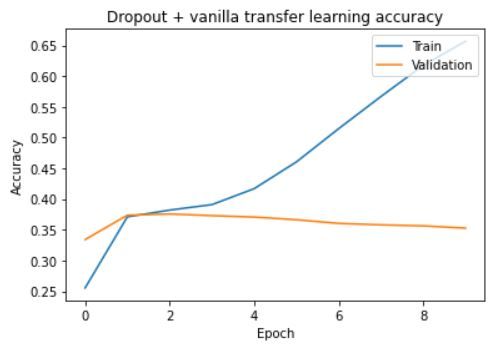
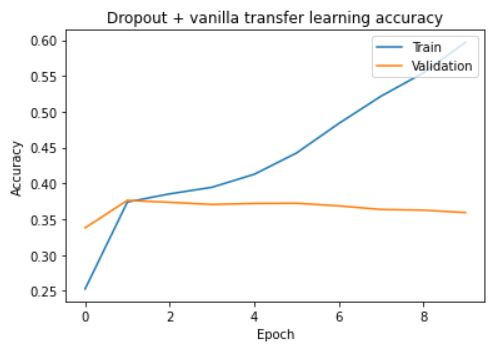
Updated report with last models

diff --git a/README.md b/README.md
@@ -2,7 +2,7 @@
 
 # Abstract 
 
-The purpose of the project is to present the deep learning model we created during our final project for the deep learning course at EFREI. 
+The purpose of the project is to present the deep learning model we created during our final project for the deep learning course at EFREI. We've chosen to learn more about image classification as it was a subject that interested us from the beginning and because it has many applications from fake news detection to computer vision. We wanted to apply what we had learnt during our deep learning course on a real case and for that we chose a Kaggle competition as explained further. Therefore, we had the opportunity to try various techniques and compare them.
 
 # Introduction
 
@@ -27,7 +27,7 @@ Then, we simply encoded the label (id of the individual whale) of the train.csv 
 
 ## The models
 
-### model 1 : to overfit
+### model 1 : overfitting
 
 We tried different models and techniques to resolve the problem. Our first model was the one we used for overfitting, a simple Sequential CNN, which was still a bit deeper than any models we developed during the course. We used Convolutionnal and Max pooling layers to reduce the image size. We added batch normalization layers since we read that it could make our model training faster and more stable. We also decided to add one dropout layer, to avoid too much overfitting. We then added simple dense layers with a softmax activation to normalize the outputs to a probability distribution over predicted output classes. 
 
@@ -56,20 +56,25 @@ def get_model():
   model.add(Flatten())
   model.add(Dense(256, activation = 'relu'))
   model.add(BatchNormalization())
-  model.add(Dense(y_train.shape[0], activation = 'softmax'))
+  model.add(Dense(y_train_class_count, activation = 'softmax'))
   return model
 
 optimizer = Adam(lr = 0.001, beta_1 = 0.9, beta_2 = 0.999)
 
-learning_rate_reduction = ReduceLROnPlateau(monitor='loss', 
-                                            patience=1, 
-                                            verbose=1, 
-                                            factor=0.8, 
-                                            min_lr=0.00001)
+# Set a learning rate scheduler
+def get_lr_reduction_callback(monitored_loss):
+  """
+  monitored_loss can either be loss or val_loss.
+  """
+  return ReduceLROnPlateau(monitor=monitored_loss, 
+                           patience=1, 
+                           verbose=1, 
+                           factor=0.8, 
+                           min_lr=0.00001)
 
-model.compile(optimizer = optimizer, loss = 'categorical_crossentropy', metrics=['accuracy'])
+model.compile(optimizer = optimizer, loss = 'sparse_categorical_crossentropy', metrics=['accuracy'])
 
-base_model_history = model.fit(X_train, y_train, epochs=40, validation_split=0.3, callbacks=[learning_rate_reduction])
+base_model_history = model.fit(X_train, y_train, epochs=40, validation_split=0.3, callbacks=[get_lr_reduction_callback('loss')])
 ```
 
 We did a really good job for overfitting, with our first model achieving an accuracy 1 and a loss of almost 0: 
@@ -86,29 +91,32 @@ Epoch 00040: ReduceLROnPlateau reducing learning rate to 0.00010737419361248613.
 
 ### model 2 : add dropout
 
-Since our first model did really good at overfitting, we decided to simply add more dropout layers (all with a factor of 0.3) between the dense one to decrease the overfitting. This time, we also decided to monitor the validation loss in the ReduceLROnPlateau callback instead of the training loss like we did before.
+Since our first model did really good at overfitting, we decided to simply add more dropout layers (all with a factor of 0.3) between the dense ones to decrease the overfitting. This time, we also decided to monitor the validation loss in the ReduceLROnPlateau callback instead of the training loss like we did before.
 
 ![model with dropout Accuracy](imagesForReadme/baseWithDropoutAccuracy.png)
 
 
 ![model with dropout Loss](imagesForReadme/baseWithDropoutLoss.png)
 
+The training accuracy got very degraded along the training loss, however, the validation loss decreased from 10 to 6.8 and the validation accuracy increased from 0.33 to 0.37.
+
 
 ### model 3 : dropout + data generation
 
 To still decrease the overfitting, we decided to try and use datageneration techniques to add more data. This was quite difficult because of the project data structure (all data in one directory and one csv file for the class matching). Because most project base themselves on a structured file system, we had a hard time finding a datageneration technique that could handle such data. Fortunately, after a bit of research, we discovered that someone actually developed a new method in keras that handled the kind of representation we had (flow_from_dataframe).
 
-This model was interesting to build however it took a lot of time to train. With 10 epochs it took 20 minutes to process the data. Moreover the result were not as good as expected, event for the tenth epoch (for the vanilla model we had a val_accuracy of 0.3110 at the tenth layer, here a val_accuracy of 0.3862) : 
+This model was interesting to build however it took a lot of time to train. With 10 epochs it took 20 minutes to process the data. Moreover the result were not as good as expected, event for the tenth epoch (for the vanilla model we had a val_accuracy of 0.3110 at the tenth layer, here a val_accuracy of 0.3886) :
 
 ![model with data generation Accuracy](imagesForReadme/dataGenWithDropoutAccuracy.png)
 
 
 ![model with data generation Loss](imagesForReadme/dataGenWithDropoutLoss.png)
 
+The training accuracy got a bit degraded along the training loss compared to dropout-only vanilla model, however, the validation loss decreased from 6.8104 to 6.5707 and the validation accuracy increased from 0.3767 to 0.3886.
 
 ### model 4 : dropout + transfer learning
 
-For our last tentative to decrease overfitting, we tried to use transfer learning. We choose for our base model ResNet50V2, which seemed to be an efficient model with a reasonable size (98), a quick process time (CPU : 45.6ms, GPU : 4.4ms) and an overall good accuracy (76.0%). 
+Here we tried to use transfer learning. We chose for our base model ResNet50V2, which seemed to be an efficient model with a reasonable size (98), a quick process time (CPU : 45.6ms, GPU : 4.4ms) and an overall good accuracy (76.0%). 
 
 ![transfer learning Accuracy](imagesForReadme/TFAccuracy.png)
 
@@ -116,7 +124,9 @@ For our last tentative to decrease overfitting, we tried to use transfer learnin
 ![transfer learning Loss](imagesForReadme/TFLoss.png)
 
 
-As you can see, our transfer learning model has a better val_accuracy than our base model at the last epoch (0.3570).
+As you can see, our transfer learning model has a better val_accuracy than our base model at the last epoch (0.3593).
+
+The training accuracy has improved along the training loss compared to dropout-datagen vanilla model, however, the validation loss increased from 6.5707 to 6.7016 and the validation accuracy decreased from 0.3886 to 0.3593.
 
 ### model 5 : transfer learning + data generation
 
@@ -127,20 +137,36 @@ after trying a simple transfer learning, we tried it with data generation (like 
 
 ![transfer learning and data generation Loss](imagesForReadme/TFDataGenLoss.png)
 
-Once again, the training took a long time and the val_accuracy was better that our vanilla model, but still not as good as the simple model (no transfer learning) with data generation (0.3845).
+Once again, the training took a long time (around 20-25 mins with ~2 mins per epoch) and the validation accuracy was better that our vanilla model, but still not as good as the simple model (no transfer learning) with data generation (0.3855 < 0.3886).
 
-### model 6 : early stopping
+The training accuracy got degraded along the training loss compared to dropout-datagen transfer learning model, however, the validation loss decreased from 6.7016 to 6.5089 which did not beat the dropout + datagen vanilla model and the validation accuracy increased from 0.3593 to 0.3896 which is the best validation accuracy so far.
+
+### model 6 : transfer learning + dropout + early stopping
+
+As data generation did not seem to do a better job than vanilla transfer learning, we chose to add the EarlyStopping callback to the base transfer learning model instead. It still aligns with our goal of reducing overfitting along with maintaining better overall training and validation metrics than with data generation.
+Like previously, we've chosen to monitor the validation loss in the EarlyStopping callback.
+
+![transfer learning and dropout and early stopping Accuracy](imagesForReadme/TFDropoutEarlyStoppingAccuracy.png)
+
+![transfer learning and dropout and early stopping Loss](imagesForReadme/TFDropoutEarlyStoppingLoss.png)
+
+
+The training stopped after only 2 epochs out of 10 available. However, the validation loss dropped to 6.1305 which is the best validation loss so far. The other metrics are comparable to the previous model.
 
 ### model 7 : grid search 
 
-Since the data generation took too long, for the last part, we decided to go with our vanilla model without dropout, since it has the best accuracy and loss. 
+Since the data generation took too long, for the last part, we decided to go with our transfer learning model with dropout (without early stopping), since it has the best training accuracy among the non-overfitted models,  and because the validation metrics were among the best. 
+For that, we've used the KerasClassifier class from the scikeras library which provides integration with the sklearn tools like GridSearch which we will use here. We've tried optimizers among 'adam', 'sgd', 'adamax' and 'nadam'.
 
+Stochastic gradient descent seems to have done the best job here :
 
+![transfer learning and dropout Grid search Accuracy](imagesForReadme/TFDropoutGridSearchAccuracy.png)
+
+![transfer learning and dropout Grid search Loss](imagesForReadme/TFDropoutGridSearchLoss.png)
 
 ## Encountered difficulties 
 The first main difficulty we faced was the one of the data. Since each image of the dataset was quite large (100~500ko/image) we did not manage to use deepnote as our model development tool. We had to use collab, but this was actually almost impossible to work concurrently. So we decided to work in peer programming, while one was writing, the other could look for documentation quickly and search solution in advance.
-We also had some issues regarding the training time. Indeed, when we took more than 10 000 images all our models took very long to train (especially the model 3), so we decided to test our models only on 10 000 images and for maximum 10 epochs (event if we tried with 40 epochs for the most basic ones). This is probably why we did not have such great result, but we just had memory and ram issues if we increase the number of data too much.
-
+We also had some issues regarding the training time. Indeed, when we took more than 10 000 images all our models took very long to train (especially the models with data generation), so we decided to test our models only on 10 000 images and for maximum 10 epochs (even if we tried with 40 epochs for the most basic ones). This is probably why we did not have such great result, but we just had memory and ram issues if we increase the number of data too much.
 
 ## Conclusion 
 
@@ -149,5 +175,9 @@ If we had more time, we would have liked to try the deeper network also seen in 
 
 
 ## Sources 
-datageneration with flow_from_dataframe : https://vijayabhaskar96.medium.com/tutorial-on-keras-flow-from-dataframe-1fd4493d237c
-recipe for overfitting : https://karpathy.github.io/2019/04/25/recipe/
+
+- [Humpback Whale Identification Kaggle competition](https://www.kaggle.com/c/humpback-whale-identification/overview)
+
+- [Data generation with flow_from_dataframe](https://vijayabhaskar96.medium.com/tutorial-on-keras-flow-from-dataframe-1fd4493d237c)
+
+- [Recipe for overfitting](https://karpathy.github.io/2019/04/25/recipe/)
